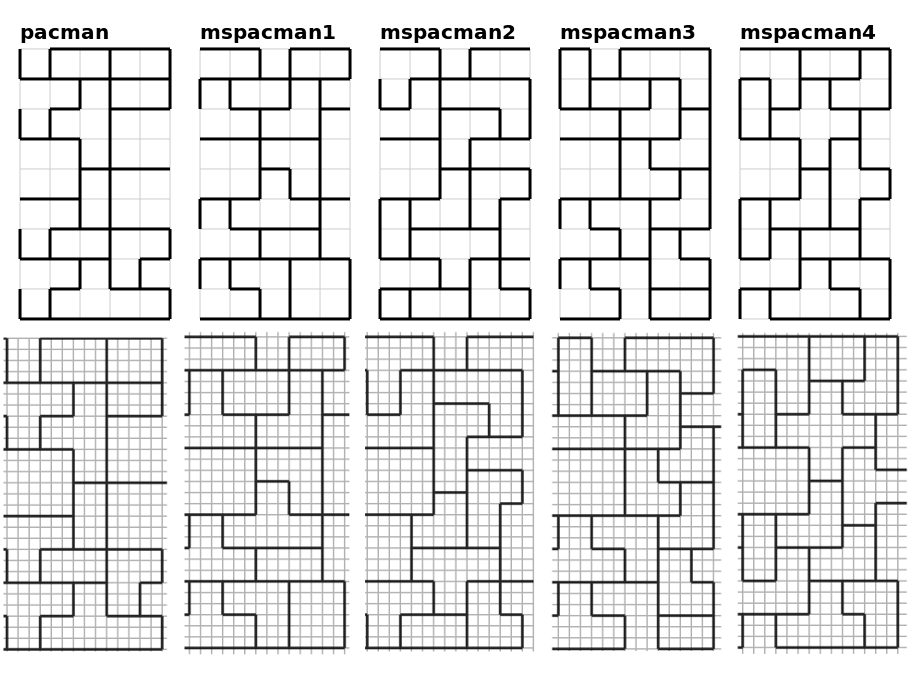
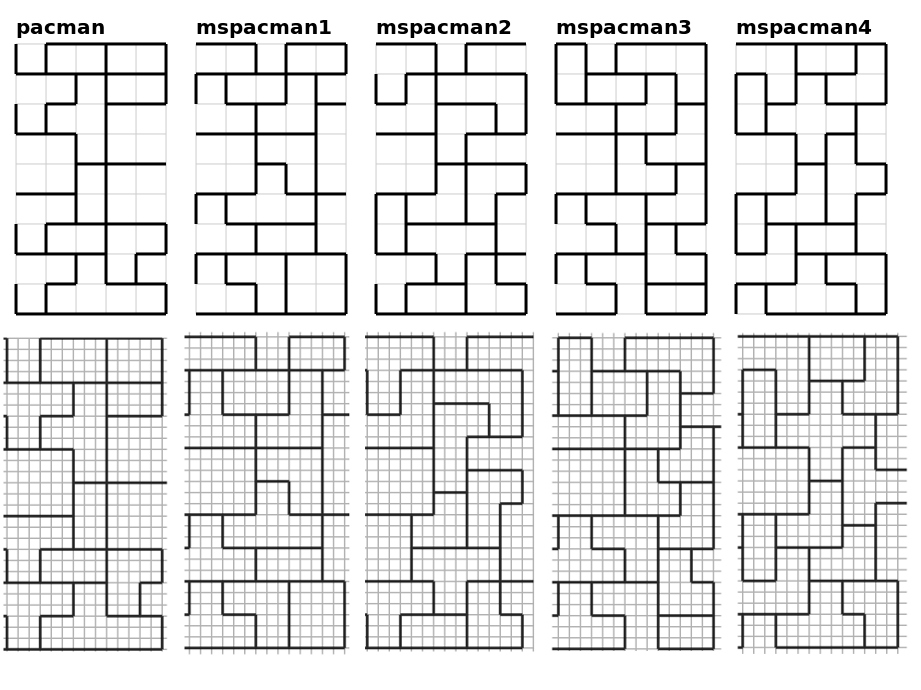
fixed simplified mspacman2 map in tetris mapgen illustration

Changed region(s): [[0.0, 0.0304, 0.9729, 0.487]]

diff --git a/mapgen/tetris/phase1.js b/mapgen/tetris/phase1.js
@@ -92,7 +92,7 @@ var presets = {
         'wJvr<' +
         'v>J^r' +
         '^>m<L' +
-        'w<^v>' +
+        'm<^v>' +
         '^><L<',
     'mspacman3':
         'v^>-7' +
